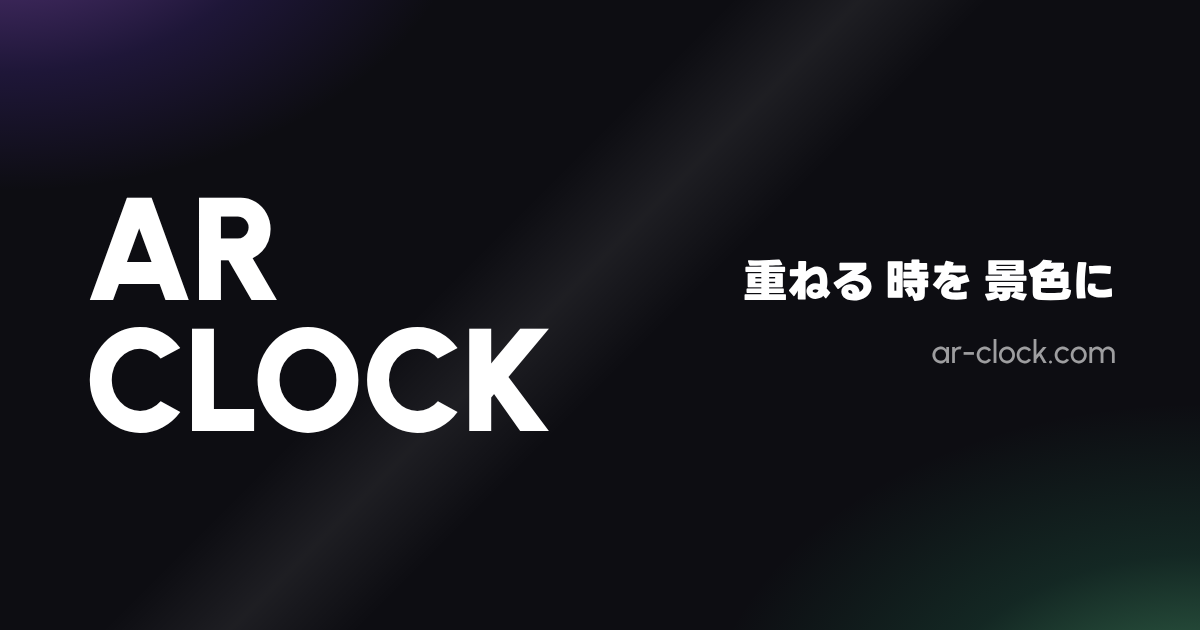
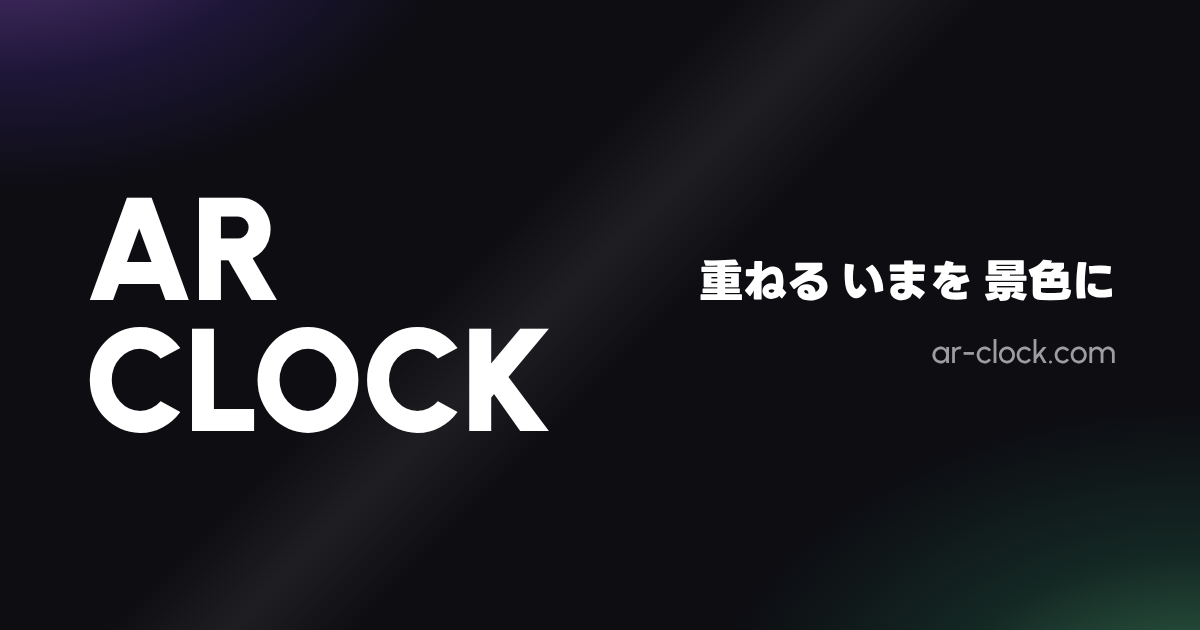
Glass clock face mode; custom place label (16 chars); tagline 重ねる いまを 景色に and refreshed OGP
Claude-Session: https://claude.ai/code/session_01JcA11h6CdsBYeNnM6ecwf5

Changed region(s): [[0.5858, 0.3921, 0.7708, 0.4825]]

diff --git a/index.html b/index.html
@@ -13,7 +13,7 @@
 <meta name="apple-mobile-web-app-title" content="AR CLOCK">
 <meta property="og:type" content="website">
 <meta property="og:url" content="https://ar-clock.com/">
-<meta property="og:image" content="https://ar-clock.com/og.png">
+<meta property="og:image" content="https://ar-clock.com/og.png?v=2">
 <meta property="og:image:width" content="1200">
 <meta property="og:image:height" content="630">
 <meta name="twitter:card" content="summary_large_image">
@@ -264,7 +264,7 @@ body.coaching .card{visibility:hidden}
   padding:calc(env(safe-area-inset-top) + 24px) max(24px,env(safe-area-inset-right)) calc(env(safe-area-inset-bottom) + 24px) max(24px,env(safe-area-inset-left))}
 #start h2{position:absolute; left:max(24px,env(safe-area-inset-left)); top:calc(env(safe-area-inset-top) + 30px); font-family:var(--font-d); font-weight:800; font-size:15px; letter-spacing:.24em; margin:0; line-height:1}
 #start .catch{font-family:var(--font-d); font-weight:800; font-size:clamp(30px,9vw,44px); line-height:1.18; letter-spacing:.02em; margin:0; text-wrap:wrap; word-break:normal}
-html:lang(ja) #start .catch{white-space:nowrap; font-size:min(44px,calc((100vw - 48px) / 10.2))}
+html:lang(ja) #start .catch{white-space:nowrap; font-size:min(44px,calc((100vw - 48px) / 11.2))}
 #start p[data-i18n="desc"]{margin-top:14px; font-size:min(14px,3.5vw); font-weight:600; opacity:.88}
 #start .go{margin-top:36px; width:100%; max-width:460px; display:flex; flex-direction:column; align-items:stretch; gap:10px}
 #start .primary{min-height:58px; border-radius:18px; font-size:18px; font-weight:800; letter-spacing:.04em}
@@ -279,6 +279,10 @@ html:lang(ja) #start .catch{white-space:nowrap; font-size:min(44px,calc((100vw -
 .sheet-body.fb{-webkit-mask-image:linear-gradient(#000 calc(100% - 56px),transparent); mask-image:linear-gradient(#000 calc(100% - 56px),transparent)}
 .sheet-body.ft{-webkit-mask-image:linear-gradient(transparent,#000 40px); mask-image:linear-gradient(transparent,#000 40px)}
 .sheet-body.ft.fb{-webkit-mask-image:linear-gradient(transparent,#000 40px,#000 calc(100% - 56px),transparent); mask-image:linear-gradient(transparent,#000 40px,#000 calc(100% - 56px),transparent)}
+.ptxt{display:flex; flex-direction:column; gap:6px; margin-top:4px}
+.ptxt label{font-size:13px; opacity:.8}
+.ptxt input{min-height:44px; padding:8px 14px; font:inherit; font-size:16px; font-weight:700; letter-spacing:.06em; color:var(--on); background:var(--glass-2); border:1px solid var(--glass-line); border-radius:16px; -webkit-appearance:none; appearance:none}
+.ptxt input::placeholder{color:rgba(255,255,255,.45); font-weight:500; letter-spacing:0}
 </style>
 
 </head>
@@ -450,9 +454,10 @@ html:lang(ja) #start .catch{white-space:nowrap; font-size:min(44px,calc((100vw -
     </div>
     <div class="grp">
       <h3 data-i18n="gMode"></h3>
-      <div class="seg two" id="segMode">
+      <div class="seg" id="segMode">
         <button type="button" data-v="panel" data-i18n="panel"></button>
         <button type="button" data-v="cutout" data-i18n="cutout"></button>
+        <button type="button" data-v="glass" data-i18n="glass"></button>
       </div>
     </div>
     <div class="grp">
@@ -462,6 +467,8 @@ html:lang(ja) #start .catch{white-space:nowrap; font-size:min(44px,calc((100vw -
         <button type="button" id="locRevoke" data-i18n="locRevoke" hidden></button>
       </div>
       <p class="note" id="locStatus"></p>
+      <div class="ptxt"><label for="placeTxt" data-i18n="placeTxt"></label>
+        <input type="text" id="placeTxt" maxlength="16" autocomplete="off" autocapitalize="characters" spellcheck="false" enterkeyhint="done" data-i18n-ph="placeTxtPh"></div>
     </div>
     <div class="grp">
       <h3 data-i18n="gSrc"></h3>
@@ -899,7 +906,7 @@ const I18N = {
     gLook:'Filter', none:'None', film:'Film', vivid:'Vivid', manga:'Manga', pop:'Pop art', mini:'Miniature', recHint:'Hold to record', clipOff:'Clip off', clipAskT:'What to do with this clip?', clipAskD:'Saves the original footage as shot. Filters, beat punch and the clock are not included.', clipSave:'Save', clipRetake:'Retake', coachT:'Press and hold the screen\nto record a short clip', coachClose:'Tap to close', clipRetakeHint:'Hold to record a new clip', clipCancel:'Cancel', bitAmt:'Dither strength', bitLo:'Flat', bitHi:'Strong', clipFail:"Couldn't record", clipShort:'Too short', tabSrc:'Source', tabBase:'Base', tabLook:'Filter', tabFx:'Effects', tabView:'Display', tabSound:'Sound', fish:'Fisheye', thermal:'Thermal', crt:'CRT', edge:'Edge', lidar:'LiDAR', pix:'Pixelate', bit:'B&W (2-tone)', gb:'Handheld game',
     lineW:'Line weight', thin:'Thin', thick:'Thick',
     gView:'Display', clockFont:'Clock font', jaFont:'Japanese font', labels:'Place & date', locNote:'Turning this on asks for your location. In Japan the coordinates go to the Geospatial Information Authority to look up the prefecture; elsewhere, rounded coordinates go to BigDataCloud to look up the country. If you decline, only the date is shown.',
-    gFx:'Effect', glitch:'Glitch', glitchAmt:'Glitch strength', vig:'Vignette', vigAmt:'Vignette strength', old:'Old film', punch:'Beat punch', punchAmt:'Punch strength', gMode:'Clock style', panel:'Panel', cutout:'Cut-out digits', sampleSrc:'Sample video',
+    gFx:'Effect', glitch:'Glitch', glitchAmt:'Glitch strength', vig:'Vignette', vigAmt:'Vignette strength', old:'Old film', punch:'Beat punch', punchAmt:'Punch strength', gMode:'Clock style', panel:'Panel', glass:'Glass', placeTxt:'Place label (up to 16 characters)', placeTxtPh:'Blank = your location', cutout:'Cut-out digits', sampleSrc:'Sample video',
     locGetting:'Getting your location…', locOk:'Showing ', locErrPerm:'The browser blocked location for this page. Allow it in the browser or OS settings.', locErrPos:'Couldn’t get your position.', locErrLookup:'Got your position, but couldn’t look up the place name.', oldAmt:'Dust and scratches', weak:'Weak', amt:'Strength', reset:'Reset', sepia:'Sepia', strong:'Strong', fish:'Fisheye', fishAmt:'Fisheye strength',
     gSrc:'Picture', camBack:'Rear camera', camFront:'Front camera',
     gStyle:'Sound style', piano:'Piano', electro:'Electro', musicbox:'Music box', birds:'Birdsong', chip:'8-bit', lofi:'Lo-fi', whistle:'Whistle', forest:'Crickets', marimba:'Marimba',
@@ -914,14 +921,14 @@ const I18N = {
     paused:'Paused', resumed:'Resumed', audioBack:'Sound resumed', hintAudio:'Tap to resume sound', hintPaused:'Paused · tap to resume', canvas:'Camera picture with filter'
   },
   ja: {
-    catch:'重ねる 時を 景色に', desc:'レンズ越しの世界に、今を重ねる時計です。', cam:'カメラを起動', pick:'写真・動画を選ぶ', demo:'サンプル映像で見る',
+    catch:'重ねる いまを 景色に', desc:'レンズ越しの世界に、今を重ねる時計です。', cam:'カメラを起動', pick:'写真・動画を選ぶ', demo:'サンプル映像で見る',
     askT:'音が鳴ります', askD:'BGMを流しますか。あとから「設定」でいつでも変えられます。', yes:'流す', no:'流さない',
     settings:'設定', close:'閉じる', flip:'前面・背面カメラを切り替え', gSound:'音', playOn:'▶ 音を鳴らす', playOff:'■ 音を止める', chime:'時報',
     gBase:'ベース', color:'カラー', mono:'モノクロ', monoTone:'モノクロの濃淡', light:'淡', dark:'濃',
     gLook:'フィルタ', none:'なし', film:'フィルム調', vivid:'ビビッド', manga:'マンガ', pop:'ポップアート', mini:'ミニチュア', recHint:'長押しして録画', clipOff:'クリップを解除しました', clipAskT:'このクリップをどうしますか？', clipAskD:'保存するのは、撮ったままの元のビデオです。フィルタ、ビートパンチ、時計はかかっていません。', clipSave:'保存', clipRetake:'撮り直す', coachT:'画面を長押しで\nショートクリップが撮れます', coachClose:'タップで閉じる', clipRetakeHint:'長押しで新しく録画できます', clipCancel:'キャンセル', bitAmt:'あみ点の強さ', bitLo:'なし', bitHi:'強い', clipFail:'録画できませんでした', clipShort:'短すぎました', tabSrc:'映像', tabBase:'ベース', tabLook:'フィルタ', tabFx:'効果', tabView:'表示', tabSound:'音', fish:'魚眼', thermal:'サーマル', crt:'CRT', edge:'エッジ', lidar:'点群', pix:'ピクセル化', bit:'白黒２色', gb:'携帯ゲーム機',
     lineW:'線の太さ', thin:'細', thick:'太',
     gView:'表示', clockFont:'時計のフォント', jaFont:'日本語のフォント', labels:'場所と日付', locNote:'オンにすると現在地の許可を求めます。日本国内では都道府県を調べるために座標を国土地理院へ、海外では国名を調べるために丸めた座標を BigDataCloud へ送ります。許可しない場合は日付だけを表示します。',
-    gFx:'効果', glitch:'グリッチ', glitchAmt:'グリッチの強さ', vig:'周辺減光', vigAmt:'周辺減光の強さ', old:'古いフィルム', punch:'ビートパンチ', punchAmt:'パンチの強さ', gMode:'時計の表示', panel:'パネル', cutout:'抜き文字', sampleSrc:'サンプル映像',
+    gFx:'効果', glitch:'グリッチ', glitchAmt:'グリッチの強さ', vig:'周辺減光', vigAmt:'周辺減光の強さ', old:'古いフィルム', punch:'ビートパンチ', punchAmt:'パンチの強さ', gMode:'時計の表示', panel:'パネル', glass:'ガラス', placeTxt:'場所の表示（16文字まで）', placeTxtPh:'空欄なら現在地', cutout:'抜き文字', sampleSrc:'サンプル映像',
     locGetting:'現在地を取得中…', locOk:'表示中：', locErrPerm:'ブラウザがこのページの現在地利用を止めています。ブラウザか端末の設定で許可してください。', locErrPos:'現在地を取得できませんでした。', locErrLookup:'現在地は取れましたが、地名を調べられませんでした。', oldAmt:'ゴミとキズの量', weak:'弱', amt:'強さ', reset:'リセット', sepia:'セピア', strong:'強', fishAmt:'魚眼の強さ',
     gSrc:'映像', camBack:'外側カメラ', camFront:'内側カメラ',
     gStyle:'音色', piano:'ピアノ', electro:'エレクトロ', musicbox:'オルゴール', birds:'鳥のさえずり', chip:'8bit', lofi:'ローファイ', whistle:'口笛', forest:'虫の声', marimba:'マリンバ',
@@ -944,6 +951,7 @@ function applyLang(){
   document.documentElement.lang = LANG;
   document.querySelectorAll('[data-i18n]').forEach(el => { el.textContent = tr(el.dataset.i18n); });
   document.querySelectorAll('[data-i18n-label]').forEach(el => { el.setAttribute('aria-label', tr(el.dataset.i18nLabel)); });
+  document.querySelectorAll('[data-i18n-ph]').forEach(el => { el.placeholder = tr(el.dataset.i18nPh); });
   document.querySelectorAll('#segLang button').forEach(b => b.setAttribute('aria-pressed', b.dataset.v === LANG ? 'true' : 'false'));
 }
 // 都道府県（国土地理院の市区町村コードの先頭2桁＝都道府県コード 01〜47 の順）。表示は言語に関わらずローマ字
@@ -1254,7 +1262,9 @@ $('fxGlitch').addEventListener('click', () => { glitchOn = !glitchOn; store.set(
 
 // 場所と日付の表示（既定は非表示）。場所は現在地から都道府県を調べる。許可されなければ場所は出さない
 let labelsOn = store.get('labels', '0') === '1', placeName = '';
-const placeText = () => placeName;
+// 場所の表示は任意の文字に置き換えられる（空欄なら現在地）
+let placeCustom = (store.get('placeTxt', '') || '').slice(0, 16);
+const placeText = () => placeCustom || placeName;
 let locState = '';
 const setPlace = (n, st) => { placeName = (n || '').toUpperCase(); locState = st !== undefined ? st : placeName ? 'ok' : ''; lastMin = -1; syncSrc(); };
 // 日本の外では国名を出す。国を調べるだけなので、座標は約1km単位に丸めてから BigDataCloud に送る
@@ -1331,10 +1341,10 @@ applyJa();
 let clockFont = 'archivo';   // 時計の数字は Archivo に固定（選ぶ UI はやめた）
 const applyFont = () => { document.body.style.setProperty('--font-t', CFONT[clockFont]); const s = $('clockFont'); if (s) s.value = clockFont; };
 applyFont();
-let clockMode = store.get('mode', 'panel') === 'cutout' ? 'cutout' : 'panel';
+let clockMode = ['cutout', 'glass'].includes(store.get('mode', 'panel')) ? store.get('mode', 'panel') : 'panel';
 $('segMode').addEventListener('click', ev => {
   const b = ev.target.closest('button'); if (!b) return;
-  clockMode = b.dataset.v === 'cutout' ? 'cutout' : 'panel'; store.set('mode', clockMode); cardsOff(); syncSrc();
+  clockMode = ['cutout', 'glass'].includes(b.dataset.v) ? b.dataset.v : 'panel'; store.set('mode', clockMode); cardsOff(); glassDirty = true; syncSrc();
 });
 // パネルの色：白と、時間帯ごとの1色（深夜は紺、朝は緑〜黄緑、昼は黄〜橙、夕方は赤〜桃、夜は紫）
 const ACC = ['#2a1fb0', '#2a1fb0', '#2a1fb0', '#2a1fb0', '#0b7fd0', '#0b7fd0', '#00a3a0', '#00a95f', '#00a95f', '#8fb400', '#8fb400', '#e0a800', '#e0a800', '#f28c00', '#f28c00', '#ee5a00', '#e60012', '#e60012', '#e4007f', '#e4007f', '#8a2be2', '#8a2be2', '#4b2bd0', '#4b2bd0'];
@@ -1360,6 +1370,9 @@ $('baseK').addEventListener('input', () => { baseKs[base] = S2K(parseFloat($('ba
 $('lookK').addEventListener('input', () => { lookKs[look] = S2K(parseFloat($('lookK').value)); store.set('lookK', JSON.stringify(lookKs)); });
 $('bitAmt').addEventListener('input', () => { bitAmt = toV(parseFloat($('bitAmt').value), .75); store.set('bitAmt', String(bitAmt)); });
 $('monoTone').addEventListener('input', () => { monoTone = parseFloat($('monoTone').value); store.set('monoTone', String(monoTone)); });
+$('placeTxt').value = placeCustom;
+$('placeTxt').addEventListener('input', () => { placeCustom = $('placeTxt').value.trim().slice(0, 16); store.set('placeTxt', placeCustom); lastMin = -1; syncSrc(); });
+$('placeTxt').addEventListener('keydown', e => { if (e.key === 'Enter') e.target.blur(); });
 // 言語の切り替え
 $('segLang').addEventListener('click', ev => {
   const b = ev.target.closest('button'); if (!b) return;
@@ -1431,6 +1444,30 @@ void main(){
   }
   a/=wa; b/=wb;
   gl_FragColor=vec4(clamp(.5+(a-b)*12.,0.,1.),b,a,1.);
+}`;
+// ガラスの文字盤：映像の上に、時刻の形をしたガラスを置く。文字の中は奥の映像が屈折して少し明るく、縁に光が走る
+const FS_G = PREC + `
+uniform sampler2D u_scene,u_gm; uniform vec2 u_res;
+void main(){
+  vec2 uv=gl_FragCoord.xy/u_res;
+  vec3 sc=texture2D(u_scene,uv).rgb;
+  float b=texture2D(u_gm,uv,4.).a;
+  if(b<.002){gl_FragColor=vec4(sc,1.);return;}
+  float m=texture2D(u_gm,uv).a;
+  vec2 e=vec2(7.)/u_res;
+  float gx=texture2D(u_gm,uv+vec2(e.x,0.),4.).a-texture2D(u_gm,uv-vec2(e.x,0.),4.).a;
+  float gy=texture2D(u_gm,uv+vec2(0.,e.y),4.).a-texture2D(u_gm,uv-vec2(0.,e.y),4.).a;
+  vec2 n=vec2(gx,gy);
+  vec2 ruv=uv-n*vec2(.05,.05*u_res.x/u_res.y);
+  vec2 f=vec2(2.5)/u_res;
+  vec3 g=(texture2D(u_scene,ruv).rgb*2.+texture2D(u_scene,ruv+vec2(f.x,f.y)).rgb+texture2D(u_scene,ruv-vec2(f.x,f.y)).rgb+texture2D(u_scene,ruv+vec2(f.x,-f.y)).rgb+texture2D(u_scene,ruv-vec2(f.x,-f.y)).rgb)/6.;
+  g=mix(g,vec3(1.),.14)*1.06;
+  float ed=clamp(length(n)*3.,0.,1.);
+  vec2 nn=n/(length(n)+1e-4);
+  float sp=pow(max(dot(nn,normalize(vec2(.7,-.7))),0.),2.)*ed, sp2=pow(max(dot(nn,normalize(vec2(-.7,.7))),0.),3.)*ed;
+  g+=sp*.5+sp2*.18+ed*.05;
+  float sh=b*(1.-m)*.32;
+  gl_FragColor=vec4(mix(sc*(1.-sh),clamp(g,0.,1.),smoothstep(.3,.7,m)),1.);
 }`;
 const FS_F = PREC + COVER + `
 uniform sampler2D u_fx; uniform vec2 u_res;
@@ -1646,6 +1683,7 @@ const LOOK_ID = { none:0, manga:1, film:2, pop:3, vivid:4, mini:5, fish:6, therm
 let lineW = Math.min(1, Math.max(0, parseFloat(store.get('lineW', '0.5')) || 0));
 $('lineW').value = lineW;
 $('lineW').addEventListener('input', () => { lineW = parseFloat($('lineW').value); store.set('lineW', String(lineW)); });
+let PG = null, tS = null, gmTex = null, sw = 0, sh = 0;
 let gl = null, PH = null, PV = null, PF = null, tex = null, tA = null, tB = null, W = 0, H = 0, dpr = 1, srcW = 640, srcH = 360, ww = 0, wh = 0;
 function mkProg(fs, names){
   const sh = (type, s) => { const o = gl.createShader(type); gl.shaderSource(o, s); gl.compileShader(o); if (!gl.getShaderParameter(o, gl.COMPILE_STATUS)) throw new Error(gl.getShaderInfoLog(o)); return o; };
@@ -1674,6 +1712,11 @@ function initGL(){
     gl.bufferData(gl.ARRAY_BUFFER, new Float32Array([-1,-1, 1,-1, -1,1, -1,1, 1,-1, 1,1]), gl.STATIC_DRAW);
     gl.enableVertexAttribArray(0); gl.vertexAttribPointer(0, 2, gl.FLOAT, false, 0, 0);
     tex = mkTex(gl.LINEAR); tA = mkTarget(gl.NEAREST); tB = mkTarget(gl.LINEAR);
+    PG = mkProg(FS_G, ['u_scene', 'u_gm', 'u_res']); tS = mkTarget(gl.LINEAR); sw = sh = 0;
+    gmTex = gl.createTexture(); gl.bindTexture(gl.TEXTURE_2D, gmTex);
+    gl.texParameteri(gl.TEXTURE_2D, gl.TEXTURE_WRAP_S, gl.CLAMP_TO_EDGE); gl.texParameteri(gl.TEXTURE_2D, gl.TEXTURE_WRAP_T, gl.CLAMP_TO_EDGE);
+    gl.texParameteri(gl.TEXTURE_2D, gl.TEXTURE_MIN_FILTER, gl.LINEAR_MIPMAP_LINEAR); gl.texParameteri(gl.TEXTURE_2D, gl.TEXTURE_MAG_FILTER, gl.LINEAR);
+    glassDirty = true;
     ww = wh = 0; stillDirty = true;
     return true;
   }catch(e){ console.error(e); gl = null; return false; }
@@ -1714,7 +1757,9 @@ function render(now){
   }
   // グリッチは「入」なら常時、「切」でも映像をタップした瞬間だけ走る
   const glitch = glitchOn || tap > .03, u = PF.u, mono = base === 'mono', P = mono ? GREYS : PALS[pal % PALS.length];
-  gl.bindFramebuffer(gl.FRAMEBUFFER, null); gl.viewport(0, 0, cv.width, cv.height); gl.useProgram(PF.p);
+  const glass = running && !thumbT && clockMode === 'glass' && !clipQuiet();
+  if (glass && (sw !== cv.width || sh !== cv.height)){ sw = cv.width; sh = cv.height; gl.bindTexture(gl.TEXTURE_2D, tS.t); gl.texImage2D(gl.TEXTURE_2D, 0, gl.RGBA, sw, sh, 0, gl.RGBA, gl.UNSIGNED_BYTE, null); gl.bindTexture(gl.TEXTURE_2D, tex); }
+  gl.bindFramebuffer(gl.FRAMEBUFFER, glass ? tS.f : null); gl.viewport(0, 0, cv.width, cv.height); gl.useProgram(PF.p);
   gl.activeTexture(gl.TEXTURE1); gl.bindTexture(gl.TEXTURE_2D, tB.t); gl.uniform1i(u.u_fx, 1); gl.activeTexture(gl.TEXTURE0);
   srcU(u); gl.uniform2f(u.u_res, cv.width, cv.height); gl.uniform1f(u.u_t, now % 600); gl.uniform1f(u.u_dpr, dpr);
   gl.uniform1f(u.u_mono, mono ? 1 : 0); gl.uniform1f(u.u_look, LOOK_ID[look] || 0); gl.uniform1f(u.u_glitch, glitch ? 1 : 0);
@@ -1731,7 +1776,33 @@ function render(now){
   gl.uniform3fv(u.u_p0, P[0]); gl.uniform3fv(u.u_p1, P[1]); gl.uniform3fv(u.u_p2, P[2]); gl.uniform3fv(u.u_p3, P[3]);
   if (thumbT){ gl.uniform1f(u.u_glitch, 0); gl.uniform1f(u.u_burst, 0); gl.uniform1f(u.u_vig, 0); gl.uniform1f(u.u_old, 0); gl.uniform1f(u.u_zoom, 0); }   // サムネイルには、エフェクトをかけない
   gl.drawArrays(gl.TRIANGLES, 0, 6);
+  if (glass){
+    if (glassDirty) drawGlassMask();
+    gl.bindFramebuffer(gl.FRAMEBUFFER, null); gl.useProgram(PG.p);
+    gl.activeTexture(gl.TEXTURE2); gl.bindTexture(gl.TEXTURE_2D, gmTex); gl.uniform1i(PG.u.u_gm, 2);
+    gl.activeTexture(gl.TEXTURE3); gl.bindTexture(gl.TEXTURE_2D, tS.t); gl.uniform1i(PG.u.u_scene, 3);
+    gl.uniform2f(PG.u.u_res, cv.width, cv.height); gl.drawArrays(gl.TRIANGLES, 0, 6);
+    gl.activeTexture(gl.TEXTURE0);
+  }
 }
+// ガラスの時刻の形（白＝ガラス）。画面全体を 1024×1024 に縮めて描き、ぼかしはミップマップで作る（縁の向きを出すのに使う）
+const gmCv = document.createElement('canvas'); gmCv.width = gmCv.height = 1024;
+function drawGlassMask(){
+  glassDirty = false;
+  const c = gmCv.getContext('2d'), d = new Date(), t = p2(d.getHours()) + ':' + p2(d.getMinutes());
+  c.setTransform(1, 0, 0, 1, 0, 0); c.clearRect(0, 0, 1024, 1024);
+  c.setTransform(1024 / W, 0, 0, 1024 / H, 0, 0);
+  const fam = getComputedStyle(document.body).getPropertyValue('--font-t') || "'Archivo',sans-serif";
+  c.font = '800 100px ' + fam; const w100 = c.measureText(t).width || 300;
+  const fs = Math.min(W * .86 / w100 * 100, H * .26);
+  c.font = '800 ' + fs + 'px ' + fam; c.textAlign = 'center'; c.textBaseline = 'middle'; c.fillStyle = '#fff';
+  c.fillText(t, W / 2, H * .3);
+  gl.activeTexture(gl.TEXTURE2); gl.bindTexture(gl.TEXTURE_2D, gmTex);
+  gl.pixelStorei(gl.UNPACK_FLIP_Y_WEBGL, true); gl.texImage2D(gl.TEXTURE_2D, 0, gl.RGBA, gl.RGBA, gl.UNSIGNED_BYTE, gmCv); gl.pixelStorei(gl.UNPACK_FLIP_Y_WEBGL, false);
+  gl.generateMipmap(gl.TEXTURE_2D); gl.activeTexture(gl.TEXTURE0);
+}
+if (document.fonts && document.fonts.ready) document.fonts.ready.then(() => { glassDirty = true; });
+addEventListener('resize', () => { glassDirty = true; });
 
 /* ───────────── 進行：映像10秒 → 時刻カード → 映像 ───────────── */
 const SC_LEN = 10, CARD_LEN = 4, WIPE = .55;
@@ -1776,12 +1847,13 @@ function cardsOff(){ cards.forEach(el => clip(el, HIDE.l, false)); cardOn = fals
 let holdTimer = null;
 let sceneT0 = 0, cardOn = false, burst = 0, tap = 0, pal = 0, lines = 0, lastT = 0, hold = false;
 const p2 = n => (n < 10 ? '0' : '') + n, WD = ['SUN', 'MON', 'TUE', 'WED', 'THU', 'FRI', 'SAT'];
-let lastSec = -1, lastMin = -1, lastHour = -1;
+let lastSec = -1, lastMin = -1, lastHour = -1, glassMin = -1, glassDirty = true;
 function tickClock(){
   const d = new Date(), s = d.getSeconds(); if (s === lastSec) return;
   lastSec = s; const m = d.getMinutes(), h = d.getHours();
   // 0秒の長い音のときはカードを出さず、1〜6秒に毎秒1枚ずつ。7秒になった瞬間に映像へ戻り、次の1秒まで映像
-  if (running && !hold && !away && !clipQuiet()){
+  if (m !== glassMin){ glassMin = m; glassDirty = true; }
+  if (running && !hold && !away && !clipQuiet() && clockMode !== 'glass'){
     const k = s % 10;
     if (k >= 1 && k <= 6){
       cardIn(p2(h) + ' ' + p2(m) + ' ' + p2(s));

diff --git a/README.md b/README.md
@@ -46,3 +46,5 @@ python3 -m http.server 8000
 - 音量スライダーは廃止（鳴らす／止めるのみ。音量は端末で）。
 - 疑似触覚（Web・iOSのブラウザ）：タブ・サムネ含む全ボタンに透明スイッチを重ねる。スライダーはブラウザでは鳴らせない（アプリ内は1段ごとにネイティブ振動）。
 - アイコン類：favicon.ico（32＋16ドット）、favicon-16/32.png、apple-touch-icon.png（180）、icon-192/512.png、og.png（1200×630）。白の Urbanist 900「AR／CLOCK」左ぞろえ・上下中央。アイコンと OGP の背景はレンズの反射防止（AR）コートの紫と緑の映り込み、favicon は真っ黒 #101010。32px は横を82%につぶし、16px はドット字。
+- 時計の見せ方に「ガラス」を追加：映像は全面のまま、HH:MM をガラスの文字で重ねる（WebGL の追加パス。文字の形は 1024² のマスクに描きミップマップでぼかして縁の向きを出し、奥の映像を屈折・明るく・縁に光）。
+- 場所の表示は任意の文字（16文字まで）に置き換え可。空欄なら現在地。
